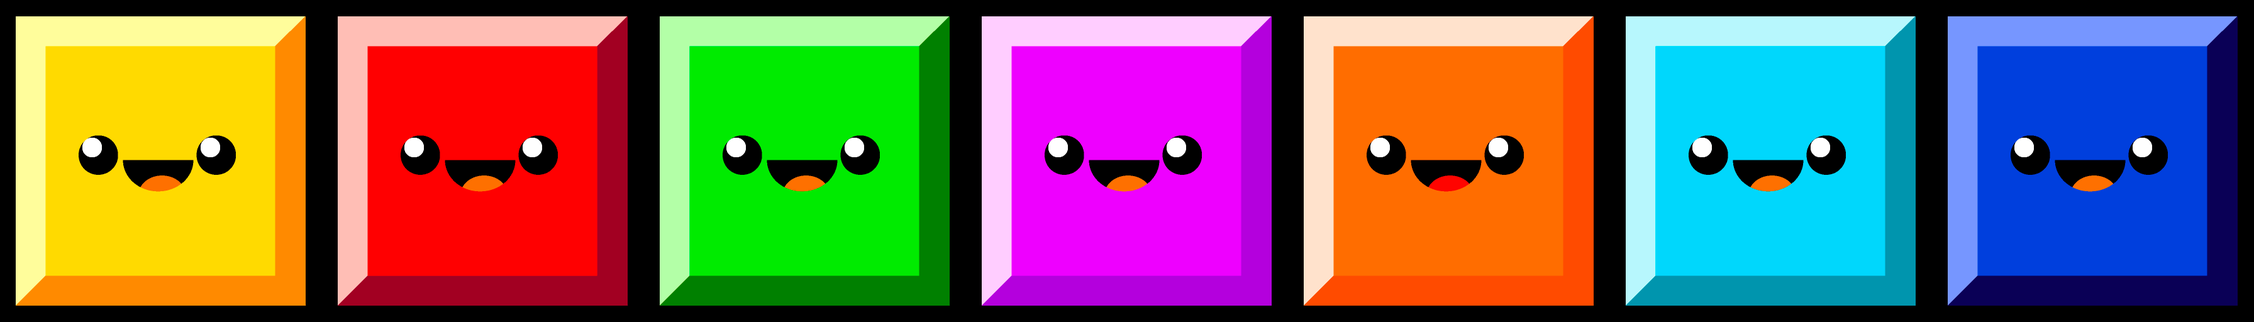
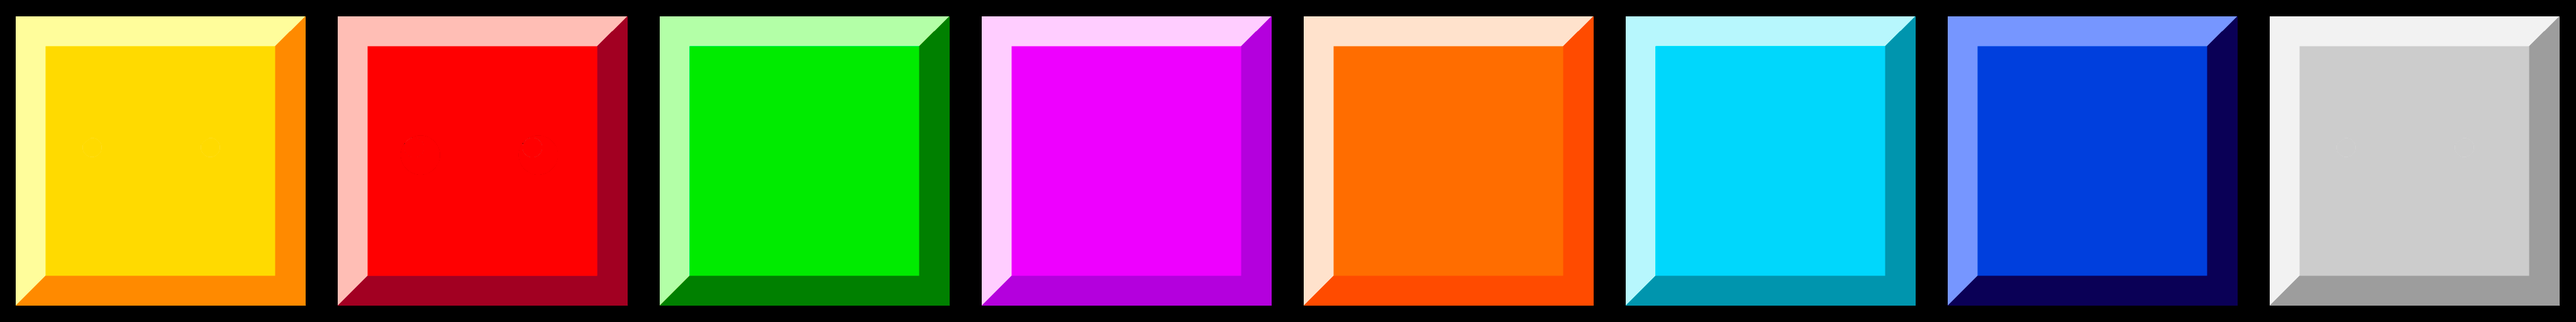
Update image to include walls, start main game state

diff --git a/GameMenuStateSP.cpp b/GameMenuStateSP.cpp
@@ -1,0 +1,118 @@
+//
+// Created by pauli on 2/6/2023.
+//
+
+#include "TetrisApp.h"
+#include "GameMenuStateSP.h"
+
+namespace Tetris {
+
+    GameMenuStateSP::GameMenuStateSP(App *app) : MenuState(app) {
+        this->currentPiece = 0;
+        this->currentX = FIELD_WIDTH / 2;
+        this->currentY = 0;
+        this->currentRotation = 0;
+
+        this->field = new unsigned int[FIELD_WIDTH * FIELD_HEIGHT];
+
+        // Initialize the field
+        for (int x = 0; x < FIELD_WIDTH; x++) {
+            for (int y = 0; y < FIELD_HEIGHT; y++) {
+                int index = x + y * FIELD_WIDTH;
+
+                // Check if boundary
+                if (x == 0 || x == FIELD_WIDTH - 1 || y == FIELD_HEIGHT - 1) {
+                    field[index] = BOUNDARY_ID;
+                } else {
+                    field[index] = EMPTY_ID;
+                }
+            }
+        }
+    }
+
+    void GameMenuStateSP::loadComponents() {
+        MenuState::loadComponents();
+    }
+
+    void GameMenuStateSP::update(float ts) {
+        MenuState::update(ts);
+
+        bool isPressed = app->isKeyPressed(SDL_SCANCODE_LEFT);
+        bool wasPressed = this->test;
+        this->test = isPressed;
+
+        if(isPressed && !wasPressed && app->isKeyPressed(SDL_SCANCODE_LEFT)) {
+            currentRotation = (currentRotation + 1) % 4;
+        }
+    }
+
+    void GameMenuStateSP::render(SDL_Renderer *renderer, float ts) {
+        MenuState::render(renderer, ts);
+
+        int size = 48;
+
+        int borderWidth = 26;
+        int textureSize = 512;
+
+        int startX = (App::WINDOW_WIDTH / 2) - (FIELD_WIDTH * size) / 2;
+        int startY = (App::WINDOW_HEIGHT / 2) - (FIELD_HEIGHT * size) / 2;
+
+        // Render the field
+        for (int x = 0; x < FIELD_WIDTH; x++) {
+            for (int y = 0; y < FIELD_HEIGHT; y++) {
+                int index = x + y * FIELD_WIDTH;
+                unsigned int id = field[index];
+
+                int posX = startX + x * size;
+                int posY = startY + y * size;
+
+                // Check if boundary
+                if (id == BOUNDARY_ID) {
+                    SDL_Texture *tetrominoTexture = app->getTexture("tetronimo").texture;
+                    int textureX = textureSize * 7;
+
+                    SDL_Rect srcRect = {textureX + borderWidth, borderWidth, 460, 460};
+                    SDL_Rect dstRec = {posX, posY, size, size};
+
+                    renderTexture(renderer, tetrominoTexture, &srcRect, &dstRec);
+                } else if (id == EMPTY_ID) {
+                    // Draw blank square
+                    SDL_SetRenderDrawColor(renderer, 128, 128, 128, 255);
+                    SDL_Rect rect = {posX, posY, size, size};
+                    SDL_RenderDrawRect(renderer, &rect);
+                } else {
+                    // Otherwise draw in the correct teromino piece
+                    SDL_Texture *tetrominoTexture = app->getTexture("tetronimo").texture;
+                    int textureX = textureSize * (id - 1);
+
+                    SDL_Rect srcRect = {textureX + borderWidth, borderWidth, 460, 460};
+                    SDL_Rect dstRec = {posX, posY, size, size};
+
+                    renderTexture(renderer, tetrominoTexture, &srcRect, &dstRec);
+                }
+            }
+        }
+
+        // Render current piece in
+        for(int pieceX = 0; pieceX < Tetromino::TETROMINO_SIZE; pieceX++) {
+            for(int pieceY = 0; pieceY < Tetromino::TETROMINO_SIZE; pieceY++) {
+                const unsigned int * shape = Tetromino::getShape(currentPiece);
+                int index = Tetromino::rotate(pieceX, pieceY, currentRotation);
+                unsigned int value = shape[index];
+
+                if(value != 0) {
+                    int posX = startX + (currentX + pieceX) * size;
+                    int posY = startY + (currentY + pieceY) * size;
+
+                    SDL_Texture *tetrominoTexture = app->getTexture("tetronimo").texture;
+                    int textureX = textureSize * currentPiece;
+
+                    SDL_Rect srcRect = {textureX + borderWidth, borderWidth, 460, 460};
+                    SDL_Rect dstRec = {posX, posY, size, size};
+
+                    renderTexture(renderer, tetrominoTexture, &srcRect, &dstRec);
+                }
+            }
+        }
+    }
+}

diff --git a/Tetronimo.h b/Tetronimo.h
@@ -1,0 +1,97 @@
+//
+// Created by pauli on 4/21/2023.
+//
+
+#ifndef MPTETRIS_TETRONIMO_H
+#define MPTETRIS_TETRONIMO_H
+
+
+namespace Tetris {
+
+    class Tetromino {
+    public:
+        /**
+         * The size of an array representing a tetromino
+        */
+        const static int TETROMINO_SIZE = 4;
+
+        /**
+         * Total number of tetrominos
+         */
+        const static int TOTAL_TETROMINOS = 7;
+
+        constexpr static unsigned int I_SHAPE[TETROMINO_SIZE * TETROMINO_SIZE] = {
+                1, 0, 0, 0,
+                1, 0, 0, 0,
+                1, 0, 0, 0,
+                1, 0, 0, 0
+        };
+
+        constexpr static unsigned int J_SHAPE[TETROMINO_SIZE * TETROMINO_SIZE] = {
+                1, 1, 1, 0,
+                0, 0, 1, 0,
+                0, 0, 0, 0,
+                0, 0, 0, 0
+        };
+
+        constexpr static unsigned int L_SHAPE[TETROMINO_SIZE * TETROMINO_SIZE] = {
+                0, 1, 1, 1,
+                0, 1, 0, 0,
+                0, 0, 0, 0,
+                0, 0, 0, 0
+        };
+
+        constexpr static unsigned int O_SHAPE[TETROMINO_SIZE * TETROMINO_SIZE] = {
+                0, 0, 0, 0,
+                0, 1, 1, 0,
+                0, 1, 1, 0,
+                0, 0, 0, 0
+        };
+
+        constexpr static unsigned int S_SHAPE[TETROMINO_SIZE * TETROMINO_SIZE] = {
+                0, 0, 0, 0,
+                0, 1, 1, 0,
+                1, 1, 0, 0,
+                0, 0, 0, 0
+        };
+
+        constexpr static unsigned int T_SHAPE[TETROMINO_SIZE * TETROMINO_SIZE] = {
+                0, 0, 0, 0,
+                0, 1, 1, 1,
+                0, 0, 1, 0,
+                0, 0, 0, 0
+        };
+
+        constexpr static unsigned int Z_SHAPE[TETROMINO_SIZE * TETROMINO_SIZE] = {
+                0, 0, 0, 0,
+                1, 1, 0, 0,
+                0, 1, 1, 0,
+                0, 0, 0, 0
+        };
+
+        // All the shapes
+        static const unsigned int * SHAPES[TOTAL_TETROMINOS];
+
+        /**
+         * Gets the shape of a tetromino
+         * @param id Id of the shape
+         * @return The pointer to the array of the shape
+         */
+        const static unsigned int * getShape(int id);
+
+        /**
+         * Rotates a shape by 90 degrees clockwise
+         * @param x X position of the shape
+         * @param y Y position of the shape
+         * @param rotation Rotation value (0 = 90 degrees, 1 = 180 degrees, 2 = 270 degrees, 3 = 360 degrees)
+         *
+         * @return The rotated index for the shape
+         */
+        static int rotate(int x, int y, int rotation);
+    };
+
+
+}
+
+
+#endif //MPTETRIS_TETRONIMO_H

diff --git a/MenuState.cpp b/MenuState.cpp
@@ -2,7 +2,7 @@
 // Created by pauli on 2/6/2023.
 //
 
-#include "MenuState.h"
+#include "GameMenuStateSP.h"
 #include "TetrisApp.h"
 #include <iostream>
 
@@ -44,8 +44,10 @@ namespace Tetris {
                                                                                     App::WINDOW_WIDTH / 2,
                                                                                     App::WINDOW_HEIGHT / 2, 153, 56);
         button->onClick([&]() {
-            std::cout << "Start button clicked" << std::endl;
-//            this->app->changeState(App::State::GAME);
+            std::cout << "SP button clicked" << std::endl;
+            std::shared_ptr<MenuState> nextState = std::make_shared<GameMenuStateSP>(app);
+            nextState->loadComponents();
+            app->changeState(nextState);
         });
 
         buttons.push_back(button);
@@ -54,7 +56,7 @@ namespace Tetris {
                                                    App::WINDOW_HEIGHT / 2 + 100, 153, 56);
         button->onClick([&]() {
             std::cout << "MP button clicked" << std::endl;
-            std::shared_ptr<MenuState> nextState = std::make_shared<TestMenuState>(app);
+            std::shared_ptr<MenuState> nextState = std::make_shared<GameMenuStateSP>(app);
             nextState->loadComponents();
             app->changeState(nextState);
         });

diff --git a/GameMenuStateSP.h b/GameMenuStateSP.h
@@ -1,0 +1,40 @@
+//
+// Created by pauli on 2/6/2023.
+//
+
+#ifndef MPTETRIS_GAMEMENUSTATESP_H
+#define MPTETRIS_GAMEMENUSTATESP_H
+
+#include "Tetronimo.h"
+#include "MenuState.h"
+#include <vector>
+#include <memory>
+
+namespace Tetris {
+
+    // Forward Declare App Class
+    class App;
+
+    class GameMenuStateSP : public MenuState {
+    public:
+        const static int FIELD_WIDTH = 10;
+        const static int FIELD_HEIGHT = 20;
+        const static int BOUNDARY_ID = 8;
+        const static int EMPTY_ID = 0;
+
+        explicit GameMenuStateSP(App *app);
+        void loadComponents() override;
+        void update(float ts) override;
+        void render(SDL_Renderer *renderer, float ts) override;
+    private:
+        unsigned int * field;
+        int currentPiece;
+        int currentRotation;
+        int currentX, currentY;
+
+        bool test;
+    };
+
+}
+
+#endif //MPTETRIS_GAMEMENUSTATESP_H

diff --git a/Tetronimo.cpp b/Tetronimo.cpp
@@ -1,0 +1,31 @@
+//
+// Created by pauli on 4/21/2023.
+//
+
+#include "Tetronimo.h"
+
+namespace Tetris {
+
+    const unsigned int * Tetromino::SHAPES[Tetromino::TOTAL_TETROMINOS] = { Tetromino::I_SHAPE, Tetromino::J_SHAPE, Tetromino::L_SHAPE, Tetromino::O_SHAPE, Tetromino::S_SHAPE, Tetromino::T_SHAPE, Tetromino::Z_SHAPE };
+
+    int Tetromino::rotate(int x, int y, int rotation) {
+        int index = y * TETROMINO_SIZE + x;
+
+        switch (rotation) {
+            case 0:
+                return index;
+            case 1:
+                return 12 + y - (x * TETROMINO_SIZE);
+            case 2:
+                return 15 - (y * TETROMINO_SIZE) - x;
+            case 3:
+                return 3 - y + (x * TETROMINO_SIZE);
+            default:
+                return index;
+        }
+    }
+
+    const unsigned int *Tetromino::getShape(int id) {
+        return SHAPES[id];
+    }
+}

diff --git a/RenderHelper.h b/RenderHelper.h
@@ -39,6 +39,15 @@ namespace Tetris {
      * @param dst Destination rectangle. If null, the entire renderer will be used.
      */
     void renderTexture(SDL_Renderer *renderer, SDL_Texture *texture, SDL_Rect *src, SDL_FRect *dst);
+
+    /**
+     * Render a texture to a given renderer.
+     * @param renderer Renderer to render the texture on
+     * @param texture Texture to render
+     * @param src Source rectangle. If null, the entire texture will be rendered.
+     * @param dst Destination rectangle. If null, the entire renderer will be used.
+     */
+    void renderTexture(SDL_Renderer *renderer, SDL_Texture *texture, SDL_Rect *src, SDL_Rect *dst);
 }
 
 #endif //MPTETRIS_RENDERHELPER_H

diff --git a/RenderHelper.cpp b/RenderHelper.cpp
@@ -25,4 +25,8 @@ namespace Tetris {
     void renderTexture(SDL_Renderer *renderer, SDL_Texture *texture, SDL_Rect *src, SDL_FRect *dst) {
         SDL_RenderCopyF(renderer, texture, src, dst);
     }
+
+    void renderTexture(SDL_Renderer *renderer, SDL_Texture *texture, SDL_Rect *src, SDL_Rect *dst) {
+        SDL_RenderCopy(renderer, texture, src, dst);
+    }
 }

diff --git a/TetrisApp.cpp b/TetrisApp.cpp
@@ -138,6 +138,7 @@ namespace Tetris {
             onUpdate(timestep);
 
             // clears the screen
+            SDL_SetRenderDrawColor(renderer, 0,0,0,0);
             SDL_RenderClear(renderer);
 
             // render the app
